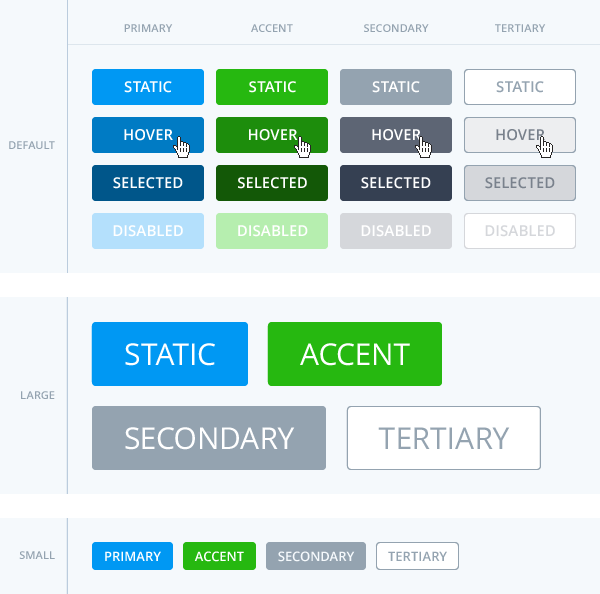
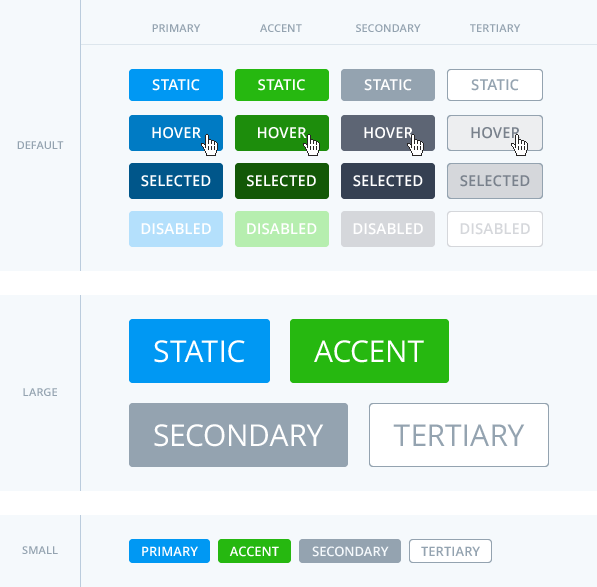
Create Pattern: Empty State. Update button patterns.

diff --git a/button_flat.php b/button_flat.php
@@ -21,7 +21,7 @@
 			<div id="container">
 				<section>
 					<h4></h4>
-					<img src="img/guide/button_flat_01.png" alt="Raised Buttons">
+					<img src="img/guide/button_flat_01.png" alt="Flat Buttons">
 				</section>
 				<aside>
 					<dl class="related">
@@ -40,14 +40,14 @@
 								<!-- -->
 								<dt>Default</dt>
 								<dd>Height: <span class="pxrem">36px</span></dd>
-								<dd>Padding: <span class="pxrem">24px</span></dd>
+								<dd>Padding: <span class="pxrem">12px</span></dd>
 								<dd>Margin: <span class="pxrem">12px</span></dd>
 								<dd>Text Size: 15px (11pt)</dd>
 								<dd>Weight: 600</dd>
 								<!-- -->
 								<dt>Large</dt>
 								<dd>Height: <span class="pxrem">64px</span></dd>
-								<dd>Padding: <span class="pxrem">32px</span></dd>
+								<dd>Padding: <span class="pxrem">24px</span></dd>
 								<dd>Margin: <span class="pxrem">20px</span></dd>
 								<dd>Text Size: 30px (23pt)</dd>
 								<dd>Weight: 400</dd>
@@ -95,7 +95,6 @@
 						</dd>
 					</dl>
 				</aside>
-			</div>
 			</div>
 		</article>
 	</main>

diff --git a/button_group.php b/button_group.php
@@ -33,7 +33,7 @@
 				</section>
 				<section>
 					<h4>Toolbar Button Group</h4>
-					<img src="img/guide/button_group_05.png" alt="Default Tertiary Button Group">
+					<img src="img/guide/button_group_05.png" alt="Toolbar Button Group">
 				</section>
 				<aside>
 					<dl class="related">
@@ -58,9 +58,10 @@
 						<dd>Height: <span class="pxrem">28px</span></dd>
 						<dd>Button Width: <span class="pxrem">40px</span></dd>
 						<dd>Border &amp; Dividers: <span class="pxrem">1px</span> <span title="Gray 500" class="theme">#94A3B0</span></dd>
-						<dd>Hover BG: <span title="Gray 100" class="theme">#EDEEF0</span></dd>
+						<dd>Hover BG: <span title="Blue 50" class="theme">#D4EEFD</span></dd>
 						<dd>Selected BG: <span title="Gray 800" class="theme">#354052</span></dd>
-						<dd>Selected Text: #FFFFFF</dd>
+						<dd>Selected Icon: #FFFFFF</dd>
+						<dd>Disabled Border &amp; Icon: <span title="Gray 300" class="theme">#D5D7DB</span></dd>
 					</dl>
 				</aside>
 			</div>

diff --git a/button_raised.php b/button_raised.php
@@ -42,14 +42,14 @@
 								<!-- -->
 								<dt>Default</dt>
 								<dd>Height: <span class="pxrem">36px</span></dd>
-								<dd>Padding: <span class="pxrem">24px</span></dd>
+								<dd>Padding: <span class="pxrem">12px</span></dd>
 								<dd>Margin: <span class="pxrem">12px</span></dd>
 								<dd>Text Size: 15px (11pt)</dd>
 								<dd>Weight: 600</dd>
 								<!-- -->
 								<dt>Large</dt>
 								<dd>Height: <span class="pxrem">64px</span></dd>
-								<dd>Padding: <span class="pxrem">32px</span></dd>
+								<dd>Padding: <span class="pxrem">24px</span></dd>
 								<dd>Margin: <span class="pxrem">20px</span></dd>
 								<dd>Text Size: 30px (23pt)</dd>
 								<dd>Weight: 400</dd>
@@ -96,7 +96,6 @@
 						</dd>
 					</dl>
 				</aside>
-			</div>
 			</div>
 		</article>
 	</main>

diff --git a/colors.php b/colors.php
@@ -39,7 +39,7 @@
 							<td>200</td>
 							<td>#DDE6ED</td>
 							<td>rgb(221,230,237)</td>
-							<td>Secondary Divider</td>
+							<td>Secondary Divider &amp; Selections</td>
 						</tr>
 						<tr id="g300">
 							<td>300</td>
@@ -85,7 +85,7 @@
 						</tr>
 					</table>
 				</section>
-				<!--					BLUES -->
+				<!--					BLUE -->
 				<section class="full">
 					<h4>Blue</h4>
 					<table class="colors">

diff --git a/p_empty_states.php b/p_empty_states.php
@@ -25,6 +25,12 @@
 					<section class="full">
 						<h4><!--Pattern Title--></h4>
 						<img src="img/guide/p_empty_state_01.png" alt="Label">
+						<div class="desc_pattern">
+							<ul>
+								Takes up the entire view of parent container
+								Supporting and directional text combination teaches a future path to success.
+							</ul>
+						</div>
 					</section>
 					<!-- -->
 					<section class="full">
